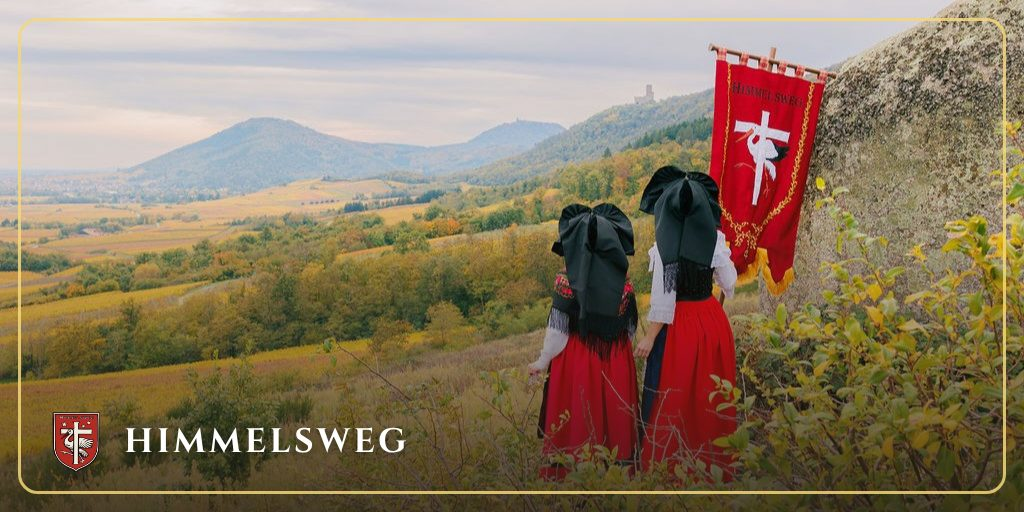
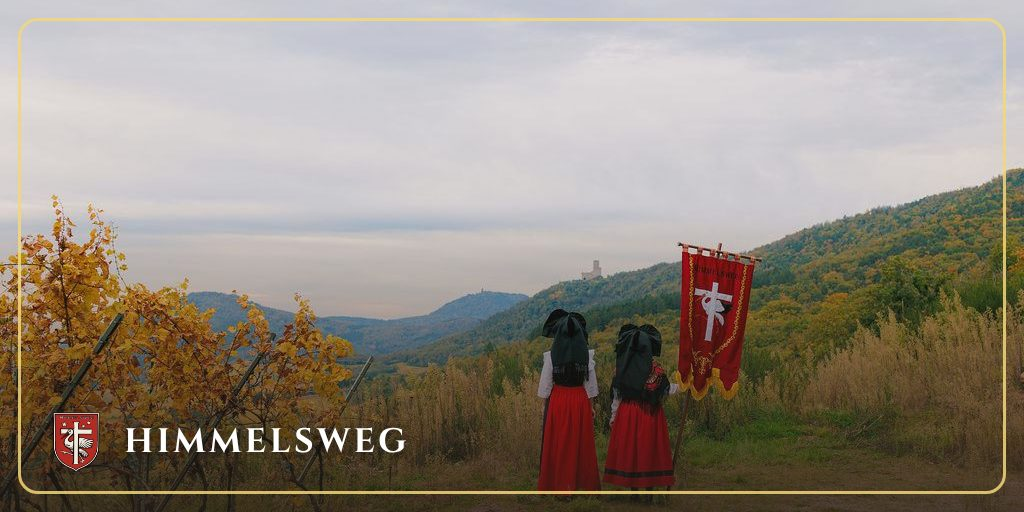
Visuels : photos de communication de Lucie Claisse sur le site et dans l'app
Site : bannière photo pour Inscription, Boutique, Don, Entreprises, Sainte Odile ; nouvelles photos pour Programme et Contact ; image de partage neuve ; crédit « Photos © Lucie Claisse » avec lien dans le pied de page.
App : nouveaux fonds de notifications (dont Important), choix de la photo de l'invitation (4 pour les pèlerines, 3 paysages pour les pèlerins), photo d'accueil selon le groupe, crédit dans Moi.
Uniquement des silhouettes de dos ou de loin.

Claude-Session: https://claude.ai/code/session_015bLzbTEBedcK7YGXZGdrHx

diff --git a/app/src/ecrans/inviter.jsx b/app/src/ecrans/inviter.jsx
@@ -3,12 +3,21 @@ import qrcode from "qrcode-generator";
 import { useEffect, useMemo, useRef, useState } from "preact/hooks";
 import { useAbonnement } from "../composants/base.jsx";
 import logo from "../composants/logo.png";
-import photoF from "../composants/invitation-f.jpg";
-import photoH from "../composants/invitation-h.jpg";
+import f1 from "../composants/photos/f1.jpg";
+import f2 from "../composants/photos/f2.jpg";
+import f3 from "../composants/photos/f3.jpg";
+import f4 from "../composants/photos/f4.jpg";
+import h1 from "../composants/photos/h1.jpg";
+import h2 from "../composants/photos/h2.jpg";
+import h3 from "../composants/photos/h3.jpg";
 import { joursAvant } from "../donnees/modele.js";
 import { motInvitation } from "./soutien.jsx";
 import { ALSACE } from "../composants/alsace.js";
 import { CHEMIN, ETAPES, projection } from "../composants/accueil-invite.jsx";
+
+// Photos au choix pour l'invitation (Photos © Lucie Claisse) : silhouettes de dos pour les pèlerines,
+// paysages et bannière pour les pèlerins.
+export const PHOTOS_INVITATION = { F: [f1, f2, f3, f4], H: [h1, h2, h3] };
 
 const L = 1080;
 const H = 1920;
@@ -67,14 +76,14 @@ function arrondi(ctx, x, y, l, h, r) {
 }
 
 /** Photos, blason et polices, chargés une fois par dessin ou par vidéo. */
-export async function preparer({ groupe }) {
+export async function preparer({ groupe, photo: n = 0 }) {
   await Promise.all([
     document.fonts.load("700 96px Cinzel"),
     document.fonts.load('400 42px "Source Sans 3 Variable"'),
     document.fonts.load('700 42px "Source Sans 3 Variable"'),
   ]);
   const [photo, blason] = await Promise.all([
-    charger(groupe === "H" ? photoH : photoF),
+    charger((PHOTOS_INVITATION[groupe] ?? PHOTOS_INVITATION.F)[n] ?? PHOTOS_INVITATION.F[0]),
     charger(logo),
   ]);
   return { photo, blason };
@@ -443,7 +452,8 @@ export function Inviter({ donnees, session }) {
   const message = messageInvitation(session.prenom, lien);
   const amis = Number(session.amisInscrits) || 0;
 
-  const opts = { groupe, prenom, mot, lien, jours: joursAvant() };
+  const [photo, setPhoto] = useState(0);
+  const opts = { groupe, prenom, mot, lien, jours: joursAvant(), photo };
   const [video, setVideo] = useState(null); // null, ou avancement de l'enregistrement (0 → 1)
   const peutVideo = useMemo(() => !admin && !!formatVideo(), [admin]);
 
@@ -455,7 +465,7 @@ export function Inviter({ donnees, session }) {
       .then(() => !arret.stop && setPret(true))
       .catch(() => setMsg("L’image n’a pas pu être préparée."));
     return () => (arret.stop = true);
-  }, [mot, groupe]);
+  }, [mot, groupe, photo]);
 
   // Deux temps : on prépare la vidéo (8 s), puis on la partage d'une nouvelle touche
   // (les téléphones n'ouvrent le partage que juste après qu'on a touché l'écran).
@@ -560,19 +570,34 @@ export function Inviter({ donnees, session }) {
           aria-label="Image d’invitation"
         />
       </div>
+      <div class="choix-photo" role="group" aria-label="Choisir la photo">
+        {(PHOTOS_INVITATION[groupe] ?? PHOTOS_INVITATION.F).map((src, n) => (
+          <button
+            key={src}
+            type="button"
+            class={n === photo ? "choisie" : ""}
+            aria-pressed={n === photo}
+            aria-label={`Photo ${n + 1}`}
+            disabled={video !== null}
+            onClick={() => setPhoto(n)}
+          >
+            <img src={src} alt="" />
+          </button>
+        ))}
+      </div>
       {admin && (
         <div class="actions">
           <button
             type="button"
             class={`bouton petit ${groupe === "F" ? "" : "secondaire"}`}
-            onClick={() => setGroupeApercu("F")}
+            onClick={() => { setGroupeApercu("F"); setPhoto(0); }}
           >
             Pèlerines
           </button>
           <button
             type="button"
             class={`bouton petit ${groupe === "H" ? "" : "secondaire"}`}
-            onClick={() => setGroupeApercu("H")}
+            onClick={() => { setGroupeApercu("H"); setPhoto(0); }}
           >
             Pèlerins
           </button>

diff --git a/app/src/styles.css b/app/src/styles.css
@@ -292,6 +292,10 @@ h1 .pastille { display: inline-grid; vertical-align: middle; margin-right: .3rem
 /* Accueil du pèlerin */
 .apercu-moment { display: flex; align-items: center; gap: .5rem; flex-wrap: wrap; font-size: .9rem; color: var(--gris); margin-bottom: .6rem; }
 .apercu-moment select { min-height: 36px; padding: .2rem .5rem; border: 1px solid #cfc5ad; border-radius: 8px; background: var(--blanc); }
+.accueil-photo { position: relative; margin: 0 0 1rem; border-radius: var(--rayon); overflow: hidden; aspect-ratio: 16 / 7; min-height: 9rem; background: var(--encre); }
+.accueil-photo img { position: absolute; inset: 0; width: 100%; height: 100%; object-fit: cover; object-position: center 60%; }
+.accueil-photo::after { content: ""; position: absolute; inset: 0; background: linear-gradient(180deg, rgba(35,28,24,0) 35%, rgba(35,28,24,.75)); }
+.accueil-photo h1 { position: absolute; left: 1rem; right: 1rem; bottom: .7rem; margin: 0; color: #fff; z-index: 1; text-shadow: 0 2px 10px rgba(0,0,0,.4); }
 .compte-a-rebours { display: flex; align-items: center; gap: 1rem; background: var(--rouge); color: #fff; border-radius: var(--rayon); padding: .9rem 1.1rem; margin-bottom: 1rem; }
 .compte-a-rebours strong { font-family: 'Cinzel', serif; font-size: 2rem; line-height: 1; white-space: nowrap; }
 .compte-a-rebours span { font-size: .95rem; line-height: 1.35; }
@@ -389,6 +393,11 @@ a.lien-encart { text-decoration: none; cursor: pointer; flex-wrap: nowrap; }
 .carte-inviter .bouton, .carte-bilan .bouton { flex: none; }
 .invitation { display: flex; justify-content: center; margin: .4rem 0 1rem; }
 .invitation canvas { width: min(100%, 340px); height: auto; aspect-ratio: 9 / 16; border-radius: 16px; box-shadow: 0 8px 28px rgba(0,0,0,.25); background: var(--encre); }
+.choix-photo { display: flex; justify-content: center; gap: .5rem; margin: -.3rem 0 1rem; }
+.choix-photo button { padding: 0; border: 3px solid transparent; border-radius: 10px; background: none; cursor: pointer; overflow: hidden; width: 56px; aspect-ratio: 2 / 3; }
+.choix-photo button.choisie { border-color: var(--rouge); }
+.choix-photo button:disabled { opacity: .5; cursor: default; }
+.choix-photo img { display: block; width: 100%; height: 100%; object-fit: cover; }
 label.formulaire { display: block; font-weight: 600; margin-bottom: 1rem; }
 label.formulaire textarea { display: block; width: 100%; margin-top: .25rem; padding: .5rem .7rem; border: 1px solid #cfc5ad; border-radius: 8px; background: var(--blanc); font-weight: 400; }
 .partage-liens { display: grid; grid-template-columns: repeat(3, 1fr); gap: .5rem; }
@@ -525,3 +534,6 @@ label.formulaire textarea { display: block; width: 100%; margin-top: .25rem; pad
 .bv-partager { animation: ai-monte .7s 7s both; }
 @media (prefers-reduced-motion: reduce) { .bienvenue * { animation-duration: .01s !important; animation-delay: 0s !important; } }
 .bienvenue .ai-alsace { fill: var(--blanc); }
+
+.credit-photos { text-align: center; color: #8f8574; font-size: .85rem; margin: 2rem 0 .5rem; }
+.credit-photos a { color: inherit; font-weight: 600; }

diff --git a/app/src/ecrans/accueil.jsx b/app/src/ecrans/accueil.jsx
@@ -1,5 +1,7 @@
 // Accueil du pèlerin : il change tout seul selon le moment (avant, pendant, après le pèlerinage).
 import { useState } from 'preact/hooks';
+import photoAccueilF from '../composants/photos/accueil-f.jpg';
+import photoAccueilH from '../composants/photos/accueil-h.jpg';
 import { useAbonnement } from '../composants/base.jsx';
 import { JOURS, aujourdhui, droits, joursAvant, momentDu } from '../donnees/modele.js';
 import { lienCarte } from '../donnees/equipes.js';
@@ -62,7 +64,10 @@ export function Accueil({ donnees, session }) {
           </select>
         </label>
       )}
-      <h1>{session.prenom ? `Bienvenue, ${session.prenom}` : 'Bienvenue'}</h1>
+      <div class="accueil-photo">
+        <img src={session.groupe === 'H' ? photoAccueilH : photoAccueilF} alt="" />
+        <h1>{session.prenom ? `Bienvenue, ${session.prenom}` : 'Bienvenue'}</h1>
+      </div>
 
       {moment === 'avant' && <CompteARebours />}
       {session.statut === 'en_attente' && (

diff --git a/app/src/ecrans/moi.jsx b/app/src/ecrans/moi.jsx
@@ -139,6 +139,10 @@ export function Moi({ donnees, session }) {
           </button>
         )}
       </div>
+
+      <p class="credit-photos">
+        Photos © <a href="https://lucieclaissephotographies.pixieset.com/" target="_blank" rel="noopener">Lucie Claisse</a>
+      </p>
     </>
   );
 }

diff --git a/site/src/content/pages/inscription.md b/site/src/content/pages/inscription.md
@@ -1,6 +1,8 @@
 ---
 title: Inscription
 description: Inscription au pèlerinage Himmelsweg, 7-8-9 mai 2027. Inscription uniquement en ligne.
+banniere: ../../assets/photos/vignes-banniere-doree.jpg
+position_banniere: center 25%
 ---
 L'inscription se fait uniquement en ligne. Vous pouvez inscrire plusieurs personnes à la fois (par exemple toute une famille), hommes et femmes, puis payer en une seule fois. Le paiement est sécurisé par HelloAsso.
 

diff --git a/site/src/content/pages/sainte-odile.md b/site/src/content/pages/sainte-odile.md
@@ -1,6 +1,7 @@
 ---
 title: Sainte Odile
 description: Sainte Odile, patronne de l'Alsace, dont les reliques ont accompagné le pèlerinage Himmelsweg 2026.
+banniere: ../../assets/photos/montagne-soir.jpg
 photo: ../../assets/photos/sainte-odile.jpg
 ---
 **En 2026, les reliques de sainte Odile ont été présentes pendant tout le pèlerinage Himmelsweg.**

diff --git a/site/src/content/pages/boutique.md b/site/src/content/pages/boutique.md
@@ -1,6 +1,8 @@
 ---
 title: Boutique
 description: La boutique du pèlerinage Himmelsweg.
+banniere: ../../assets/photos/chapelet-tablier.jpg
+position_banniere: center 70%
 widgets:
   - url: https://www.helloasso.com/associations/association-pour-le-culte-catholique-traditionnel-en-alsace/boutiques/boutique-himmelsweg/widget
     hauteur: 900

diff --git a/site/src/content/pages/programme.md b/site/src/content/pages/programme.md
@@ -1,7 +1,8 @@
 ---
 title: Programme
 description: Le programme des trois jours de marche du pèlerinage Himmelsweg, 7-8-9 mai 2027.
-banniere: ../../assets/photos/paysage-chateau.jpg
+banniere: ../../assets/photos/chemin-banniere.jpg
+position_banniere: center 55%
 etapes:
   - jour: Vendredi
     date: 7 mai

diff --git a/site/src/content/pages/don.md b/site/src/content/pages/don.md
@@ -1,6 +1,7 @@
 ---
 title: Faire un don
 description: Soutenir le pèlerinage Himmelsweg par un don.
+banniere: ../../assets/photos/chapelet-mains.jpg
 widgets:
   - url: https://www.helloasso.com/associations/association-pour-le-culte-catholique-traditionnel-en-alsace/formulaires/5/widget
     hauteur: 850

diff --git a/site/src/content/pages/entreprises.md b/site/src/content/pages/entreprises.md
@@ -1,6 +1,7 @@
 ---
 title: Entreprises alsaciennes
 description: Entreprises alsaciennes, soutenez le pèlerinage Himmelsweg.
+banniere: ../../assets/photos/plaine-alsace.jpg
 formulaire: entreprises
 ---
 Vous êtes sensible à notre projet ? Vous pouvez aider Himmelsweg !

diff --git a/site/src/content/pages/contact.md b/site/src/content/pages/contact.md
@@ -1,7 +1,7 @@
 ---
 title: Contact
 description: Contacter le secrétariat du pèlerinage Himmelsweg.
-banniere: ../../assets/photos/vignes-automne.jpg
+banniere: ../../assets/photos/vignes-paysage.jpg
 formulaire: contact
 ---
 ## Pèlerinage Himmelsweg
